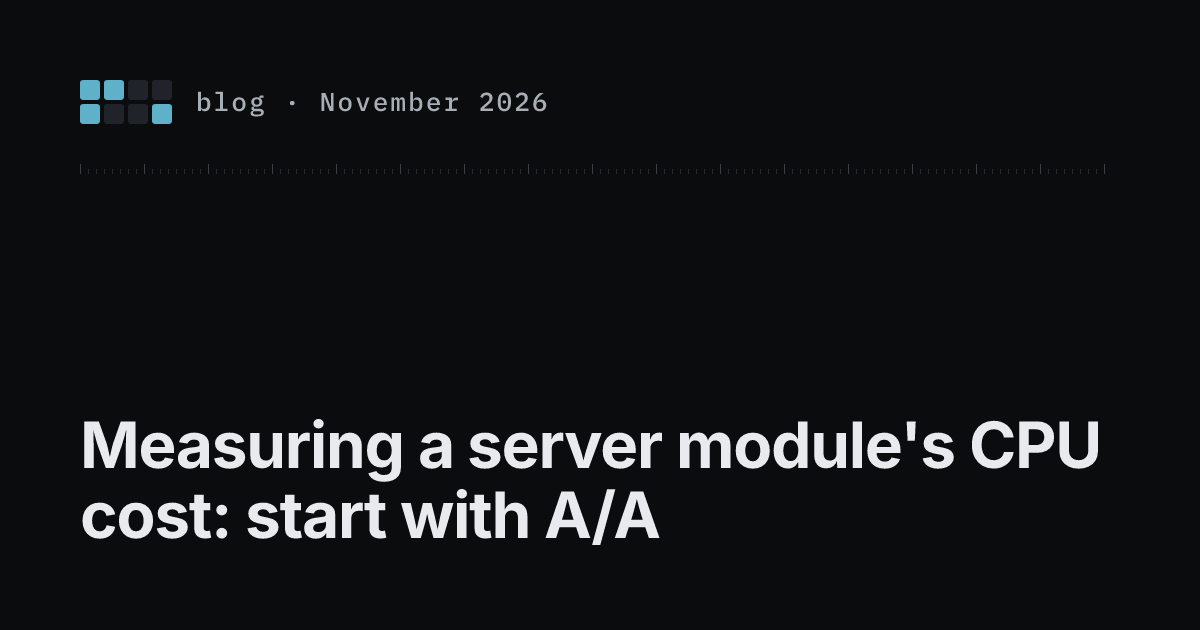
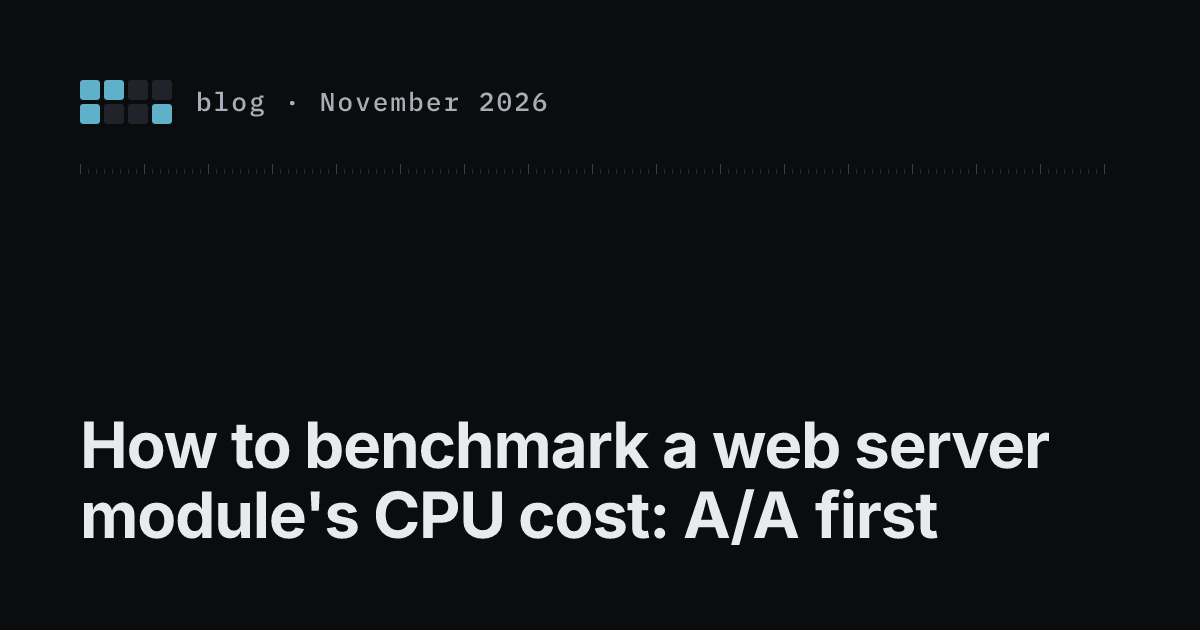
docs(website/blog): apply review findings to the module CPU cost post
Drops the unsourced statement about the module's own cost, states the
fast screen's calibration as published (one control tracked, one Not
resolved as run, nothing else screened), adds the second-session A/A
range and the 1% single-session rule, marks the 37% to 89% verdicts as
void, names IIS beside nginx and Apache, and links the Envoy CPU post and
the filter selection guide. New title, description, tags and headings
for search. Regenerates llms.txt, llms-full.txt and the title card.

Changed region(s): [[0.0617, 0.6635, 0.925, 0.8746]]

diff --git a/website/src/content/blog/measure-server-module-cpu-cost.md b/website/src/content/blog/measure-server-module-cpu-cost.md
@@ -1,40 +1,40 @@
 ---
-title: "Measuring a server module's CPU cost: start with A/A"
-description: 'Before you judge what a module, a filter or an upgrade costs your server in CPU, find the smallest change your test can resolve. A new series shows how.'
+title: "How to benchmark a web server module's CPU cost: A/A first"
+description: 'Before you judge what an nginx, Apache or IIS module, filter or upgrade costs in CPU, find the smallest change your benchmark can resolve: run A/A first.'
 date: 2026-11-28
 author: 'Otto van der Schaaf'
-tags: ['performance', 'benchmarks', 'envoy']
+tags: ['performance', 'benchmarks', 'nginx']
 product: '1.1'
 draft: false
 ---
 
-mod_pagespeed runs inside your web server, as a module in nginx, Apache and IIS. Every request it handles runs code in the server's own processes, so before you switch it on, enable another filter or take an upgrade, it is fair to ask what that costs in CPU per request.
+mod_pagespeed runs inside your web server, as a module in nginx, Apache and IIS. Every request it handles runs code in the server's own processes, so before you switch it on, enable another filter or take an upgrade, you may want to know what that costs in CPU per request.
 
-The answer is usually a few percent or less, and small numbers are where benchmarks mislead. We-Amp has published [Proxy benchmarking](https://we-amp.com/writing/proxy-benchmarking/), a series on measuring CPU per request when the noise is bigger than the effect. Its measurements are of the Envoy proxy. None of them prices mod_pagespeed, but the method carries over to any module you want to price.
+If the cost is a few percent or less, it sits where benchmarks mislead. We-Amp has published [Proxy benchmarking](https://we-amp.com/writing/proxy-benchmarking/), a series on measuring CPU per request when the noise is bigger than the effect. Its measurements are of the Envoy proxy. None of them prices mod_pagespeed, but the method carries over to any module you want to price.
 
-## How big is the noise?
+## How much benchmark noise is there?
 
-On the series' test server, a dedicated machine with nothing else running, one A/B run of an Envoy build against another cannot tell a 2% CPU change from no change or from a 4% one. Twelve paired rounds resolve about 2% (Modelled, from the measured spreads). Shared or virtualized hardware is usually noisier. If the setting you are judging costs a percent or two, one before-and-after run cannot show it, and even the sign of the result can be chance.
+On the series' test server, a dedicated machine with nothing else running, one A/B run of an Envoy build against another (the Envoy findings themselves are in [what Envoy itself costs in CPU](/blog/envoy-cpu-series/)) cannot tell a 2% CPU change from no change or from a 4% one. Twelve paired rounds resolve about 2% (Modelled, from the measured spreads). Shared or virtualized hardware is usually noisier. If the setting you are judging costs a percent or two, one before-and-after run cannot tell it from no change.
 
-## Start with the same build against itself
+## Run an A/A test first
 
-The first tool is an A/A run: [the same binary and configuration compared with a copy of themselves](https://we-amp.com/writing/proxy-benchmark-method/#what-does-an-aa-run-tell-you), in the same session, with the same pairing and analysis as the real comparison. Any difference it shows comes from the rig. On the series' server that floor was about 1.2% for HTTP/1 proxied responses in one session and 1.9% for HTTP/2. An effect inside the floor is not a finding, whatever its own interval says.
+The first tool is an A/A run: [the same binary and configuration compared with a copy of themselves](https://we-amp.com/writing/proxy-benchmark-method/#what-does-an-aa-run-tell-you), in the same session, with the same pairing and analysis as the real comparison. Any difference it shows comes from the rig. On the series' server that floor was about 1.2% for HTTP/1 proxied responses in one session (0.7% to 1.7% in another, by shape and load) and about 1.9% for HTTP/2. An effect inside the floor is not a finding, whatever its own interval says.
 
 For a module, the method translates like this:
 
-- **Run the A/A first, on the hardware you will decide on.** Its floor is the smallest module cost you can report; the series' floors will not transfer.
-- **Restart every round and pair rounds in balanced order** (A-B-B-A), with the module or filter on in one arm and off in the other.
-- **Write the plan down before the data:** the pages or traffic shape, the number of rounds, and the result that would make you turn the filter off. Anything chosen after seeing the numbers is exploratory.
+- **Run the A/A first, on the hardware you will decide on.** Its floor is the smallest module cost you can report from that session; the series also never reports an effect under about 1% from one session, because sessions differ from each other. The series' floors will not transfer.
+- **Restart every round and pair rounds in balanced order** (A-B-B-A), with the module or [filter](/docs/filter-selection/) on in one arm and off in the other.
+- **Write the plan down before the data:** the pages or traffic shape, the number of rounds, and the result that would make you turn the filter off. Anything chosen after seeing the numbers is Exploratory.
 - **Price CPU per response.** The series uses CPU cycles of the server process, user plus kernel, divided by the responses it served.
-- **Check that the load reached every worker.** In the series, the load generator's default connection reuse put the load on 2 to 4 of Envoy's 4 workers, and spreading it cut the spread of paired differences from 6.9% to 1.3% on one traffic shape. nginx and Apache spread requests over several workers too, so check where yours landed.
-- **Check what you built.** Three early verdicts in the series, gains of 37% to 89%, rested on builds without optimization. If you build the server or the module from source, copy the binary out, check its build flags and hash it.
+- **Check that the load reached every worker.** In the series, the load generator's default connection reuse put the load on 2 to 4 of Envoy's 4 workers, and spreading it cut the spread of paired differences from 6.9% to 1.3% on one traffic shape. nginx, Apache and IIS spread requests over several workers or processes too, so check where yours landed.
+- **Check what you built.** Three early verdicts in the series, gains of 37% to 89%, were void: they rested on builds without optimization. If you build the server or the module from source, copy the binary out, check its build flags and hash it.
 
-## A fast screen that only steers
+## Fast screens: steer, never decide
 
-[Envoy benchmarking with an extended Nighthawk](https://we-amp.com/writing/envoy-measurement-loop/), the second part, describes a faster screen: an agent drives the load generator and Envoy, flips one setting inside 12 short-lived processes, and returns a reading in about half an hour. It was checked against slow restart-paired runs before we used it. The screen depends on Envoy's runtime guards, which switch a setting without a restart, so it does not carry over to nginx or Apache as built. Its rule does: a fast reading chooses what goes into the next planned session, and never becomes a published result.
+[Envoy benchmarking with an extended Nighthawk](https://we-amp.com/writing/envoy-measurement-loop/), the series' second post, describes a faster screen: an agent drives the load generator and Envoy, flips one setting inside 12 short-lived processes, and returns a reading in about half an hour. It was checked against slow restart-paired runs of two known patches: the screen tracked the per-request one (ratio 0.988), and the per-connection check was Not resolved as run. At publication it had screened nothing else. The screen depends on Envoy's runtime guards, which switch a setting without a restart, so it does not carry over to nginx, Apache or IIS, which need a restart to change most settings. Its rule does: a fast reading chooses what goes into the next planned session, and never becomes the number you decide on.
 
 ## What the series does not claim
 
 Every number in the series comes from one dedicated server from 2016, running Envoy with 4 workers over loopback. Each number carries a basis label (Measured, No verdict, Not resolved, Exploratory or Modelled), and only Measured numbers become prices. The series has no figure for mod_pagespeed's own CPU cost, and neither does this post.
 
-The harness and the raw data are public at [github.com/We-Amp/envoy-price-list](https://github.com/We-Amp/envoy-price-list). If you run nginx, Apache or IIS, read [part 1](https://we-amp.com/writing/proxy-benchmark-method/): the A/A floor, the plan before the data and the labels are the parts that apply beyond Envoy.
+The harness and the raw data are public at [github.com/We-Amp/envoy-price-list](https://github.com/We-Amp/envoy-price-list). If you run nginx, Apache or IIS, read [how to benchmark a proxy's CPU when the noise is bigger than the effect](https://we-amp.com/writing/proxy-benchmark-method/): its A/A floor, its plan before the data and its labels apply beyond Envoy.
